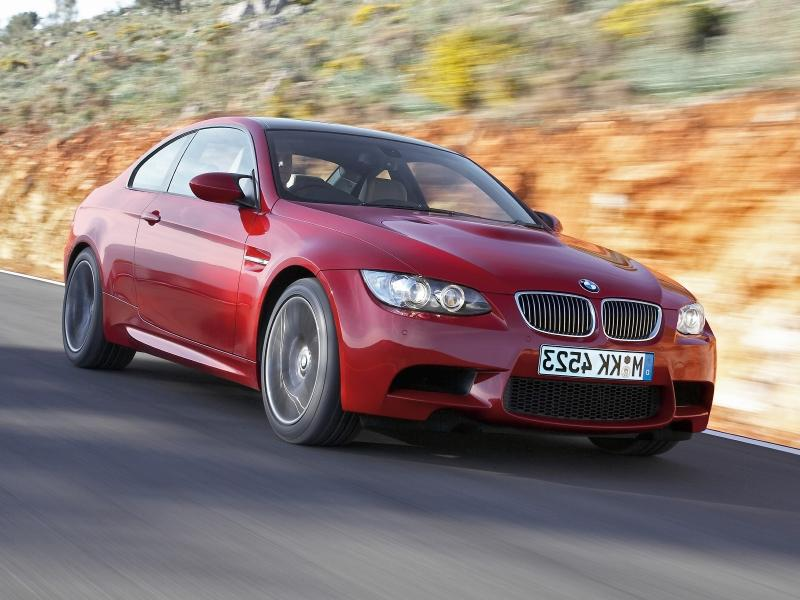
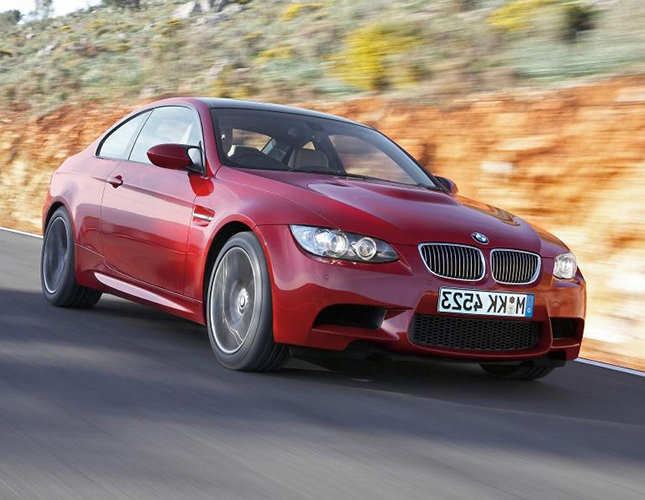
update pictures, improve usability(change button+fade effect in slideshow)

diff --git a/app/assets/stylesheets/work.scss b/app/assets/stylesheets/work.scss
@@ -2,12 +2,34 @@
 // They will automatically be included in application.css.
 // You can use Sass (SCSS) here: http://sass-lang.com/
 .left_controls, .image_display {
-  min-height: 460px;
+  min-height: 720px;
   padding: 25px;
 }
 
 .img-left-side, .img-right-side, .image_diag {
   display: none;
+}
+
+.img-left-side {
+  float: right;
+}
+
+.img-right-side {
+  float: left;
+}
+
+.img-left-side:hover, .img-right-side:hover {
+  cursor: pointer;
+  color: orange;
+}
+
+.fa-arrow-circle-right, .fa-arrow-circle-left {
+  font-size: 24px;
+}
+
+h2.up-theme {
+  margin-top: 0;
+  margin-bottom: 20px;
 }
 
 

diff --git a/db/seeds.rb b/db/seeds.rb
@@ -9,29 +9,63 @@
 Image.delete_all
 Image.reset_pk_sequence
 Image.create([
-    {name: 'expertise', file: 'Expertise.jpg', theme_id: 1},
-    {name: 'bullfight', file: 'Mane bullfight.jpg', theme_id: 2},
-    {name: 'fishing', file: 'Mane fishing.jpg', theme_id: 2},
-    {name: 'peaches', file: 'Mane peaches.jpg', theme_id: 2},
-    {name: 'seascape', file: 'Mane seascape.jpg', theme_id: 2},
-    {name: 'woman with a Jug', file: 'Mane woman with a Jug.jpg', theme_id: 2},
-    {name: 'arlekin', file: 'Picasso arlekin.jpg', theme_id: 3},
-    {name: 'girl before a mirror', file: 'Picasso girl before a mirror.jpg', theme_id: 3},
-    {name: 'gitara', file: 'Picasso gitara.jpg', theme_id: 3},
-    {name: 'muse', file: 'Picasso muse.jpg', theme_id: 3},
-    {name: 'sakre-kyor', file: 'Picasso sakre-kyor.jpg', theme_id: 3},
-    {name: 'color blue', file: 'Car color blue.jpg', theme_id: 4},
-    {name: 'color green', file: 'Car color green.jpg', theme_id: 4},
-    {name: 'color red', file: 'Car color red.jpg', theme_id: 4},
-    {name: 'color white', file: 'Car color white.jpg', theme_id: 4},
-    {name: 'color yellow', file: 'Car color yellow.jpg', theme_id: 4}
+    {name: 'Expertise', file: 'Expertise.jpg', theme_id: 1},
+    {name: 'Barge in the sea shore', file: 'Aivazovsky barge in the sea shore.jpg', theme_id: 2},
+    {name: 'Battle of Sinope', file: 'Aivazovsky battle of sinop.jpg', theme_id: 2},
+    {name: 'Sea coast', file: 'Aivazovsky sea coast.jpg', theme_id: 2},
+    {name: 'Storm at sea', file: 'Aivazovsky storm at sea.jpg', theme_id: 2},
+    {name: 'Stormy sea', file: 'Aivazovsky stormy sea.jpg', theme_id: 2},
+    {name: 'Tempest', file: 'Aivazovsky tempest.jpg', theme_id: 2},
+    {name: 'The bay of Naples in the morning', file: 'Aivazovsky the bay of naples in the morning.jpg', theme_id: 2},
+    {name: 'The bay of Yalta', file: 'Aivazovsky the bay of yalta.jpg', theme_id: 2},
+    {name: 'The great roads at Kronstadt', file: 'Aivazovsky the great roads at kronstadt.jpg', theme_id: 2},
+    {name: 'The Mary Caught in a storm', file: 'Aivazovsky the mary caught in a storm.jpg', theme_id: 2},
+    {name: 'The shores of Dalmatia', file: 'Aivazovsky the shores of dalmatia.jpg', theme_id: 2},
+    {name: 'Venice', file: 'Aivazovsky venice.jpg', theme_id: 2},
+    {name: 'A dream of a girl before a sunrise', file: 'Bryullov a dream of a girl before a sunrise.jpg', theme_id: 3},
+    {name: 'At the Mother of God Oak', file: 'Bryullov at the mother of god oak.jpg', theme_id: 3},
+    {name: 'Bivouac on a crater, Vesuvius', file: 'Bryullov bivouac on a crater vesuvius.jpg', theme_id: 3},
+    {name: 'Cliffs and moon at night', file: 'Bryullov cliffs and moon at night.jpg', theme_id: 3},
+    {name: 'Delphi valley', file: 'Bryullov delphi valley.jpg', theme_id: 3},
+    {name: 'Dreams of grandmother and granddaughter', file: 'Bryullov dreams of grandmother and granddaughter.jpg', theme_id: 3},
+    {name: 'Erminia and the Shepherds', file: 'Bryullov erminia and the shepherds.jpg', theme_id: 3},
+    {name: 'Grape Harvest Celebration', file: 'Bryullov grape harvest celebration.jpg', theme_id: 3},
+    {name: 'Nuns dream', file: 'Bryullov nun s dream.jpg', theme_id: 3},
+    {name: 'The last day of Pompeii', file: 'Bryullov the last day of pompeii.jpg', theme_id: 3},
+    {name: 'The Narcissus', file: 'Bryullov the narcissus.jpg', theme_id: 3},
+    {name: 'Stroll at Albano', file: 'Bryullov stroll at albano.jpg', theme_id: 3},
+    {name: 'The Magpie', file: 'Mane the magpie.jpg', theme_id: 4},
+    {name: 'A Farmyard in Normandy', file: 'Mane a farmyard in normandy.jpg', theme_id: 4},
+    {name: 'Adolphe Monet reading in the garden', file: 'Mane adolphe monet reading in the garden.jpg', theme_id: 4},
+    {name: 'Bullfight', file: 'Mane bullfight.jpg', theme_id: 4},
+    {name: 'Entrance to the Port of Honfleur', file: 'Mane entrance to the port of honfleur.jpg', theme_id: 4},
+    {name: 'Garden at Sainte Adresse', file: 'Mane garden at sainte adresse.jpg', theme_id: 4},
+    {name: 'Infantry guards wandering along the river', file: 'Mane infantry guards wandering along the river.jpg', theme_id: 4},
+    {name: 'Peaches', file: 'Mane peaches.jpg', theme_id: 4},
+    {name: 'Regatta at Sainte Adresse', file: 'Mane regatta at sainte adresse.jpg', theme_id: 4},
+    {name: 'Saint Germain I`Auxerrois', file: 'Mane saint germain l auxerrois.jpg', theme_id: 4},
+    {name: 'Seascape', file: 'Mane seascape.jpg', theme_id: 4},
+    {name: 'Stormy seascape', file: 'Mane stormy seascape.jpg', theme_id: 4},
+    {name: 'The dinner', file: 'Mane the dinner.jpg', theme_id: 4},
+    {name: 'The Grenouillere', file: 'Mane the grenouillere.jpg', theme_id: 4},
+    {name: 'The landing state', file: 'Mane the landing state.jpg', theme_id: 4},
+    {name: 'Color black', file: 'Car color black.jpg', theme_id: 5},
+    {name: 'Color blue', file: 'Car color blue.jpg', theme_id: 5},
+    {name: 'Color green', file: 'Car color green.jpg', theme_id: 5},
+    {name: 'Color grey', file: 'Car color grey.jpg', theme_id: 5},
+    {name: 'Color orange', file: 'Car color orange.jpg', theme_id: 5},
+    {name: 'Color purple', file: 'Car color purple.jpg', theme_id: 5},
+    {name: 'Color red', file: 'Car color red.jpg', theme_id: 5},
+    {name: 'Color white', file: 'Car color white.jpg', theme_id: 5},
+    {name: 'Color yellow', file: 'Car color yellow.jpg', theme_id: 5}
              ])
 Theme.delete_all
 Theme.reset_pk_sequence
 Theme.create([
     {name:'----'}, #1 нет темы
-    {name: 'Какое из изображений художника Мане наилучшим образом характеризует его творчество?'},
-    {name: 'Какое из изображений художника Пикассо наилучшим образом характеризует его творчество?'},
+    {name: 'Какое из изображений художника Ивана Айвазовского наилучшим образом характеризует его творчество?'},
+    {name: 'Какое из изображений художника Карла Брюллова наилучшим образом характеризует его творчество?'},
+    {name: 'Какое из изображений художника Эдуарда Мане наилучшим образом характеризует его творчество?'},
     {name: 'Какой цвет автомобиля является наиболее популярным в этом году?'}
              ])
 User.delete_all
